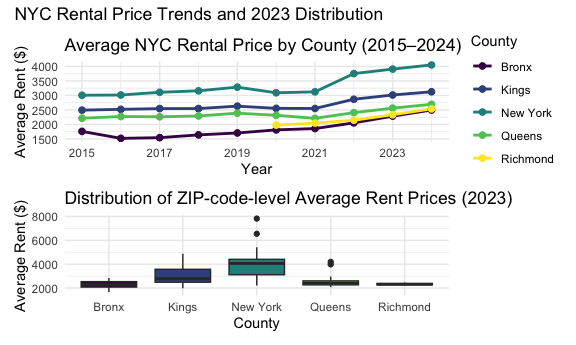
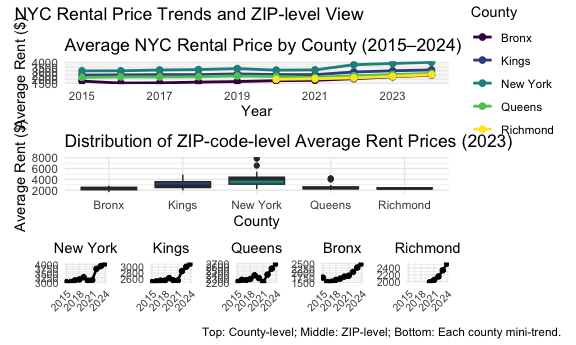
make plots for per borough

diff --git a/p8105_hw3_cw3747.md b/p8105_hw3_cw3747.md
@@ -303,69 +303,30 @@ ny_rent_year <- ny_rent |>
     ## `.groups` argument.
 
 ``` r
-ny_rent_year |>
+ny_rent_year_wide <- ny_rent_year |>
   dplyr::mutate(mean_rent = round(mean_rent, 0)) |>
-  dplyr::arrange(county, year) |>
-  knitr::kable(
-    format   = "pipe",
-    col.names = c("Borough", "Year", "Mean rent"),
-    caption  = "Average NYC Rental Price by Borough and Year",
-    digits   = 0
-  )
+  tidyr::pivot_wider(
+    names_from = year,
+    values_from = mean_rent
+  ) |>
+  dplyr::rename(Borough = county) |>
+  dplyr::arrange(match(Borough, c("Manhattan","Kings","Queens","Bronx","Richmond")))
+
+knitr::kable(
+  ny_rent_year_wide,
+  format  = "pipe",
+  caption = "Average NYC Rental Price by Borough and Year",
+  digits  = 0
+)
 ```
 
-| Borough  | Year | Mean rent |
-|:---------|-----:|----------:|
-| Bronx    | 2015 |      1760 |
-| Bronx    | 2016 |      1520 |
-| Bronx    | 2017 |      1544 |
-| Bronx    | 2018 |      1639 |
-| Bronx    | 2019 |      1706 |
-| Bronx    | 2020 |      1811 |
-| Bronx    | 2021 |      1858 |
-| Bronx    | 2022 |      2054 |
-| Bronx    | 2023 |      2285 |
-| Bronx    | 2024 |      2497 |
-| Kings    | 2015 |      2493 |
-| Kings    | 2016 |      2520 |
-| Kings    | 2017 |      2546 |
-| Kings    | 2018 |      2547 |
-| Kings    | 2019 |      2631 |
-| Kings    | 2020 |      2555 |
-| Kings    | 2021 |      2550 |
-| Kings    | 2022 |      2868 |
-| Kings    | 2023 |      3015 |
-| Kings    | 2024 |      3126 |
-| New York | 2015 |      3006 |
-| New York | 2016 |      3015 |
-| New York | 2017 |      3109 |
-| New York | 2018 |      3160 |
-| New York | 2019 |      3285 |
-| New York | 2020 |      3091 |
-| New York | 2021 |      3124 |
-| New York | 2022 |      3753 |
-| New York | 2023 |      3908 |
-| New York | 2024 |      4053 |
-| Queens   | 2015 |      2215 |
-| Queens   | 2016 |      2272 |
-| Queens   | 2017 |      2263 |
-| Queens   | 2018 |      2292 |
-| Queens   | 2019 |      2388 |
-| Queens   | 2020 |      2316 |
-| Queens   | 2021 |      2211 |
-| Queens   | 2022 |      2406 |
-| Queens   | 2023 |      2562 |
-| Queens   | 2024 |      2694 |
-| Richmond | 2015 |       NaN |
-| Richmond | 2016 |       NaN |
-| Richmond | 2017 |       NaN |
-| Richmond | 2018 |       NaN |
-| Richmond | 2019 |       NaN |
-| Richmond | 2020 |      1978 |
-| Richmond | 2021 |      2045 |
-| Richmond | 2022 |      2147 |
-| Richmond | 2023 |      2333 |
-| Richmond | 2024 |      2536 |
+| Borough  | 2015 | 2016 | 2017 | 2018 | 2019 | 2020 | 2021 | 2022 | 2023 | 2024 |
+|:---------|-----:|-----:|-----:|-----:|-----:|-----:|-----:|-----:|-----:|-----:|
+| Kings    | 2493 | 2520 | 2546 | 2547 | 2631 | 2555 | 2550 | 2868 | 3015 | 3126 |
+| Queens   | 2215 | 2272 | 2263 | 2292 | 2388 | 2316 | 2211 | 2406 | 2562 | 2694 |
+| Bronx    | 1760 | 1520 | 1544 | 1639 | 1706 | 1811 | 1858 | 2054 | 2285 | 2497 |
+| Richmond |  NaN |  NaN |  NaN |  NaN |  NaN | 1978 | 2045 | 2147 | 2333 | 2536 |
+| New York | 3006 | 3015 | 3109 | 3160 | 3285 | 3091 | 3124 | 3753 | 3908 | 4053 |
 
 Average NYC Rental Price by Borough and Year
 
@@ -460,8 +421,35 @@ p_year <- ny_rent_year |>
   scale_x_continuous(breaks = seq(2015, 2024, by = 2)) +
   theme_minimal()
 
-combined_plot <- p_year / p_zip_2023 +
-  plot_annotation(title = "NYC Rental Price Trends and 2023 Distribution")
+borough_order <- c("New York", "Kings", "Queens", "Bronx", "Richmond")
+if (!all(borough_order %in% unique(ny_rent_year$county))) {
+  borough_order <- unique(ny_rent_year$county)
+}
+
+mk_small <- function(cty) {
+  ny_rent_year %>%
+    filter(county == cty) %>%
+    ggplot(aes(x = year, y = mean_rent)) +
+    geom_line(linewidth = 0.9) +
+    geom_point(size = 1.6) +
+    labs(title = cty, x = NULL, y = NULL) +
+    scale_x_continuous(breaks = seq(2015, 2024, by = 3)) +
+    theme_minimal(base_size = 10) +
+    theme(
+      plot.title = element_text(hjust = 0.5, size = 11),
+      axis.text.x = element_text(angle = 45, hjust = 1)
+    )
+}
+
+small_list <- lapply(borough_order, mk_small)
+p_each_borough <- wrap_plots(small_list, ncol = length(small_list))
+
+combined_plot <- p_year / p_zip_2023 / p_each_borough +
+  plot_layout(heights = c(1, 1.6, 0.9)) +
+  plot_annotation(
+    title = "NYC Rental Price Trends and ZIP-level View",
+    caption = "Top: County-level; Middle: ZIP-level; Bottom: Each county mini-trend."
+  )
 
 combined_plot
 ```
@@ -475,6 +463,12 @@ combined_plot
     ## Warning: Removed 24 rows containing non-finite outside the scale range
     ## (`stat_boxplot()`).
 
+    ## Warning: Removed 5 rows containing missing values or values outside the scale range
+    ## (`geom_line()`).
+
+    ## Warning: Removed 5 rows containing missing values or values outside the scale range
+    ## (`geom_point()`).
+
 <img src="p8105_hw3_cw3747_files/figure-gfm/unnamed-chunk-16-1.png" width="90%" />
 
 ``` r
@@ -483,12 +477,17 @@ ggsave("results/combined_plot.png", combined_plot, width = 10, height = 8, dpi =
 
     ## Warning: Removed 5 rows containing missing values or values outside the scale range
     ## (`geom_line()`).
-
-    ## Warning: Removed 5 rows containing missing values or values outside the scale range
+    ## Removed 5 rows containing missing values or values outside the scale range
     ## (`geom_point()`).
 
     ## Warning: Removed 24 rows containing non-finite outside the scale range
     ## (`stat_boxplot()`).
+
+    ## Warning: Removed 5 rows containing missing values or values outside the scale range
+    ## (`geom_line()`).
+
+    ## Warning: Removed 5 rows containing missing values or values outside the scale range
+    ## (`geom_point()`).
 
 ## Problem3
 
